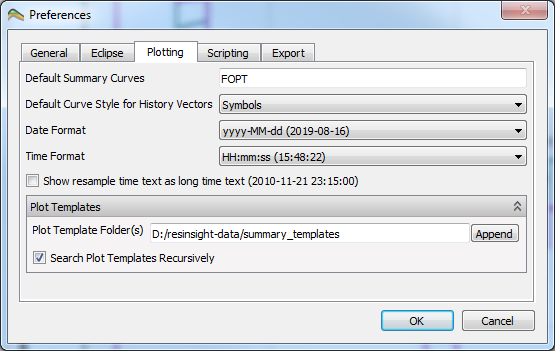
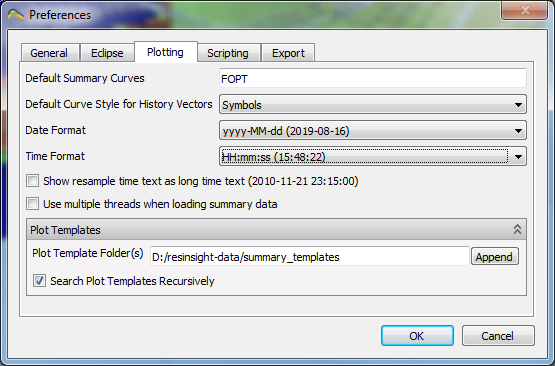
Minor update Preferences Plotting

diff --git a/content/misc/Preferences.md b/content/misc/Preferences.md
@@ -75,6 +75,8 @@ Please refer to [Summary Origin]({{< relref "summaryplots.md#origin-files" >}}) 
 - **Default Summary Curves**: Defines default curves for import when creating a new summary plot, e.g. `FOPT WOPT*`
 - **Default Curve Style for History Vectors**: allows specifying *symbols* and/or *lines* as preference.
 - **Date** and **Time** format preferences.
+- **Show resample time text** preference
+- **Use multiple threads** preference which may improve performance when loading summary data
 - **Plot Templates** allows setting preferences for:
   - *Plot Template Folder(s)*: Allows to enter and delete folder(s) that are searched for plot templates. Press *Append* to browse for folder to append. 
   - Checking *Search Plot Templates Recursively* instructs ResInsight to search subdirectories of specified folder(s) for templates.
